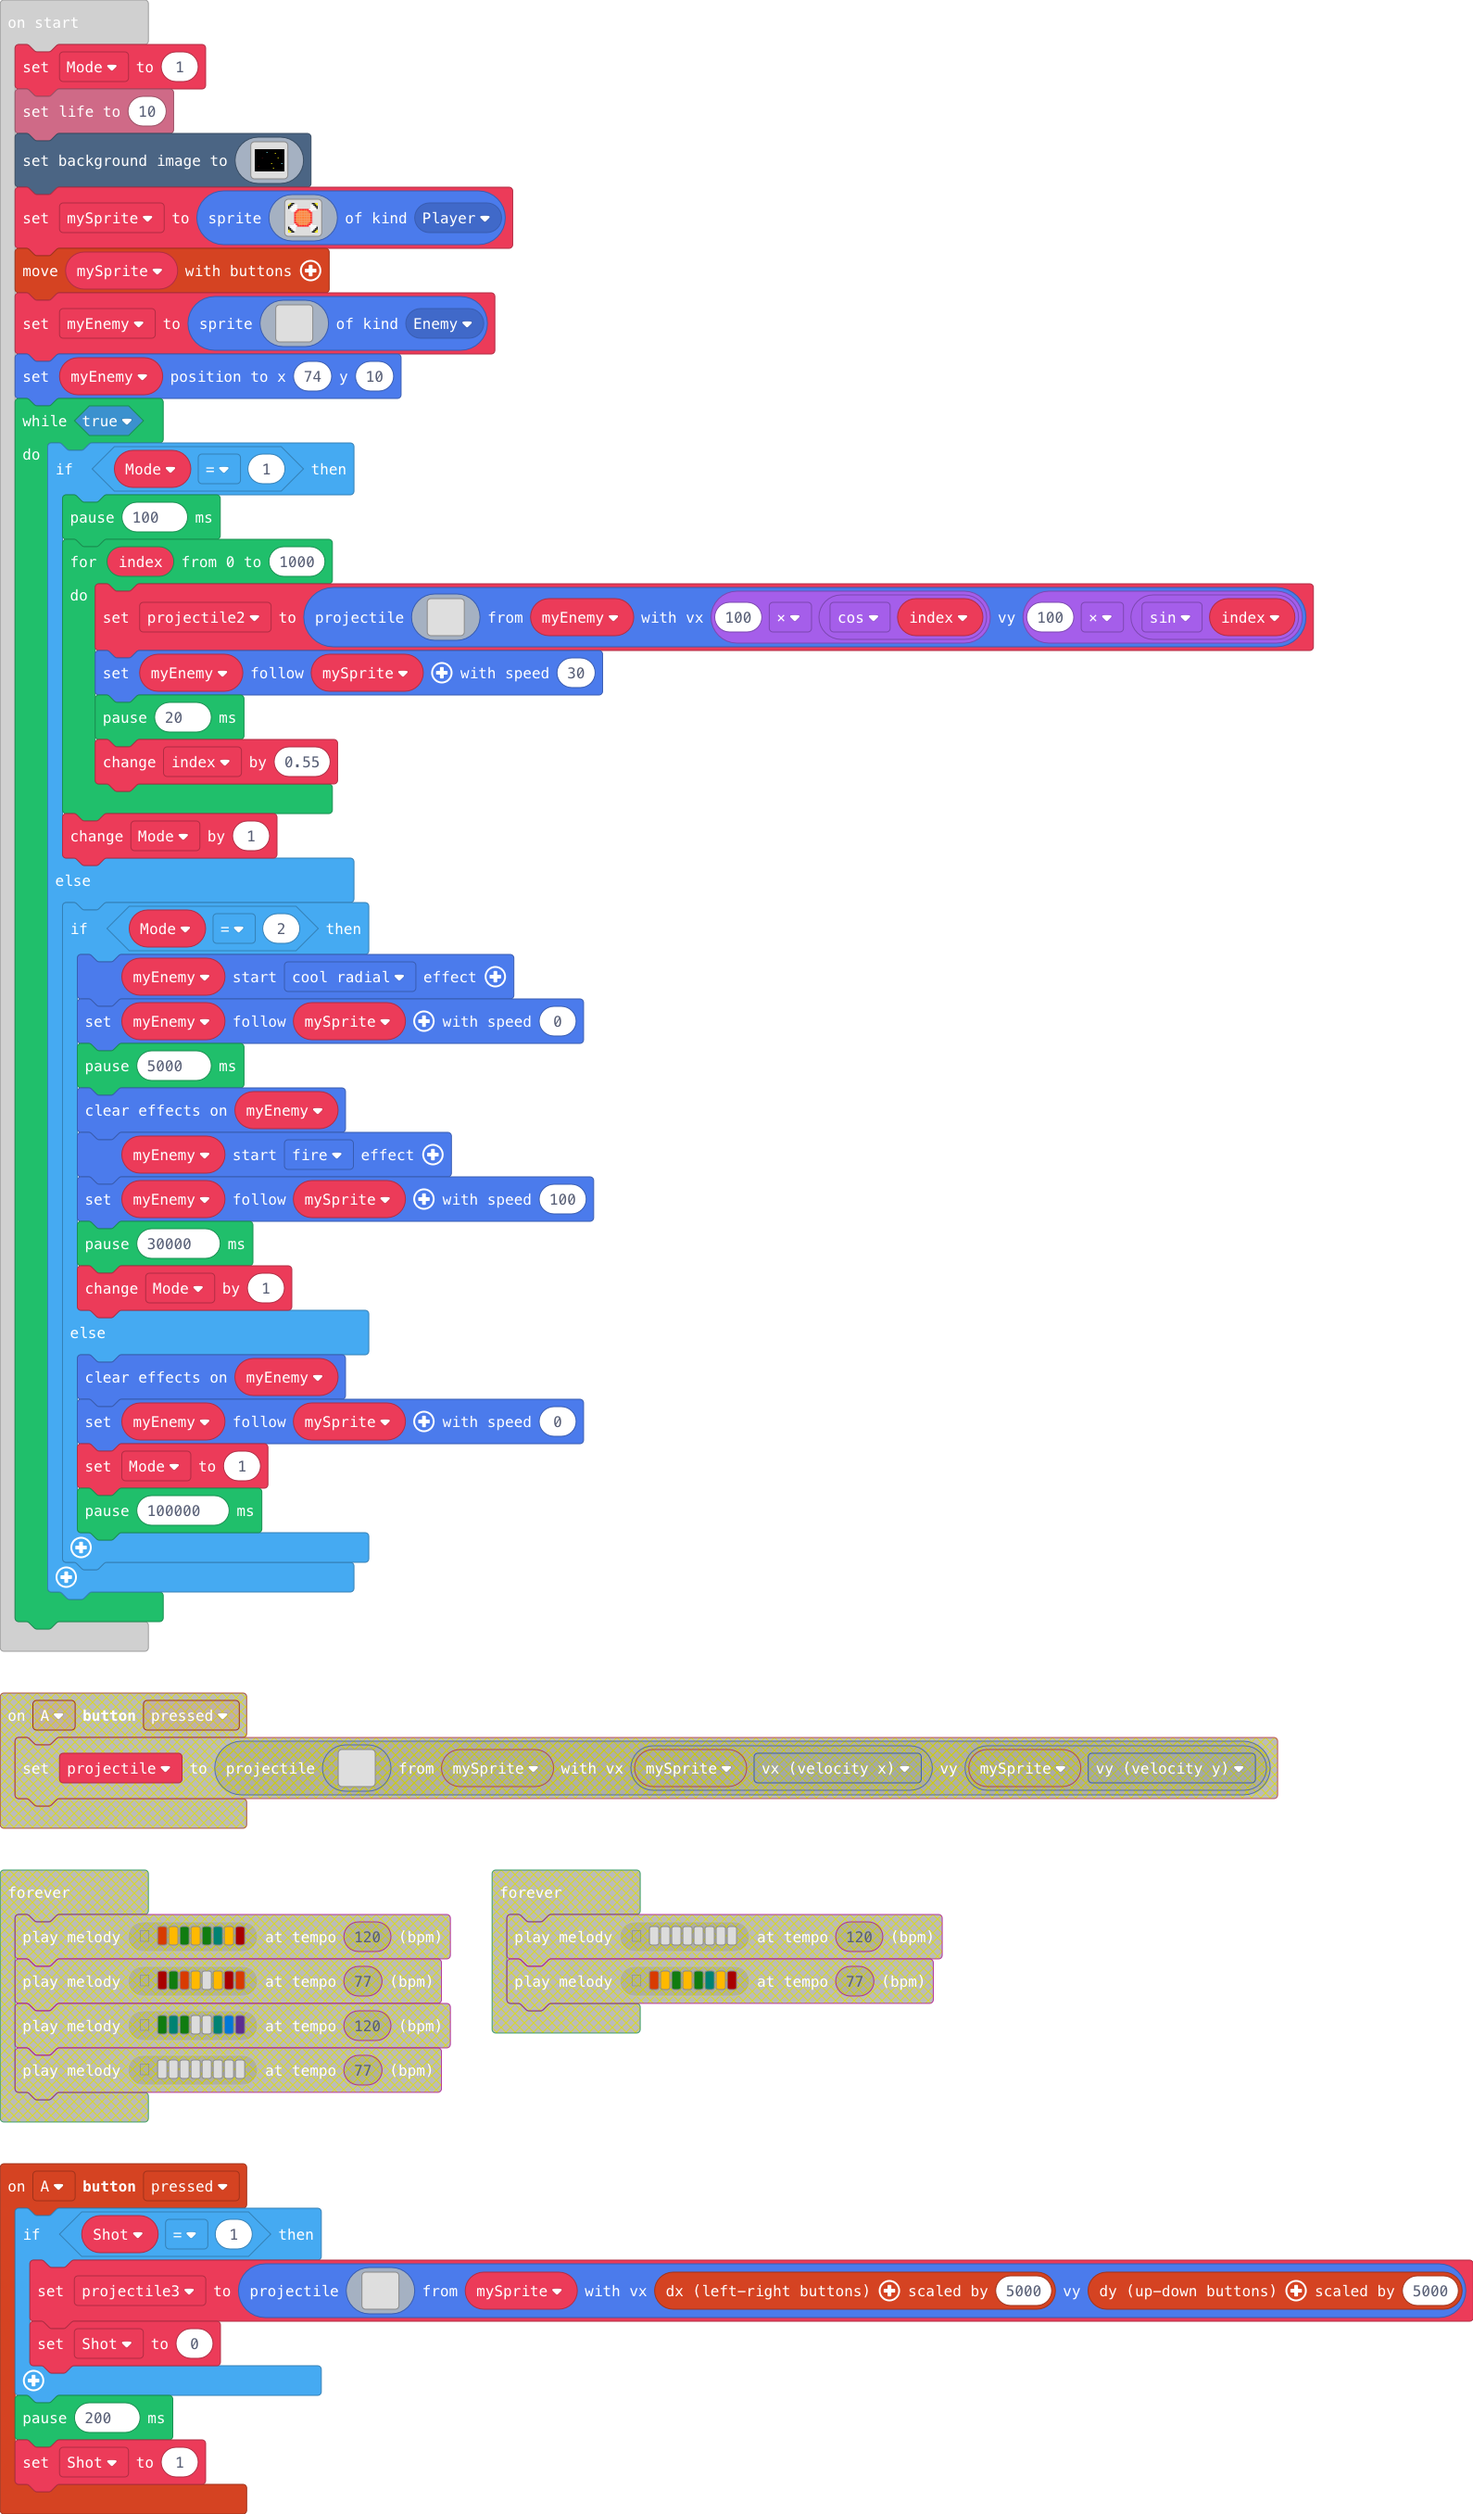
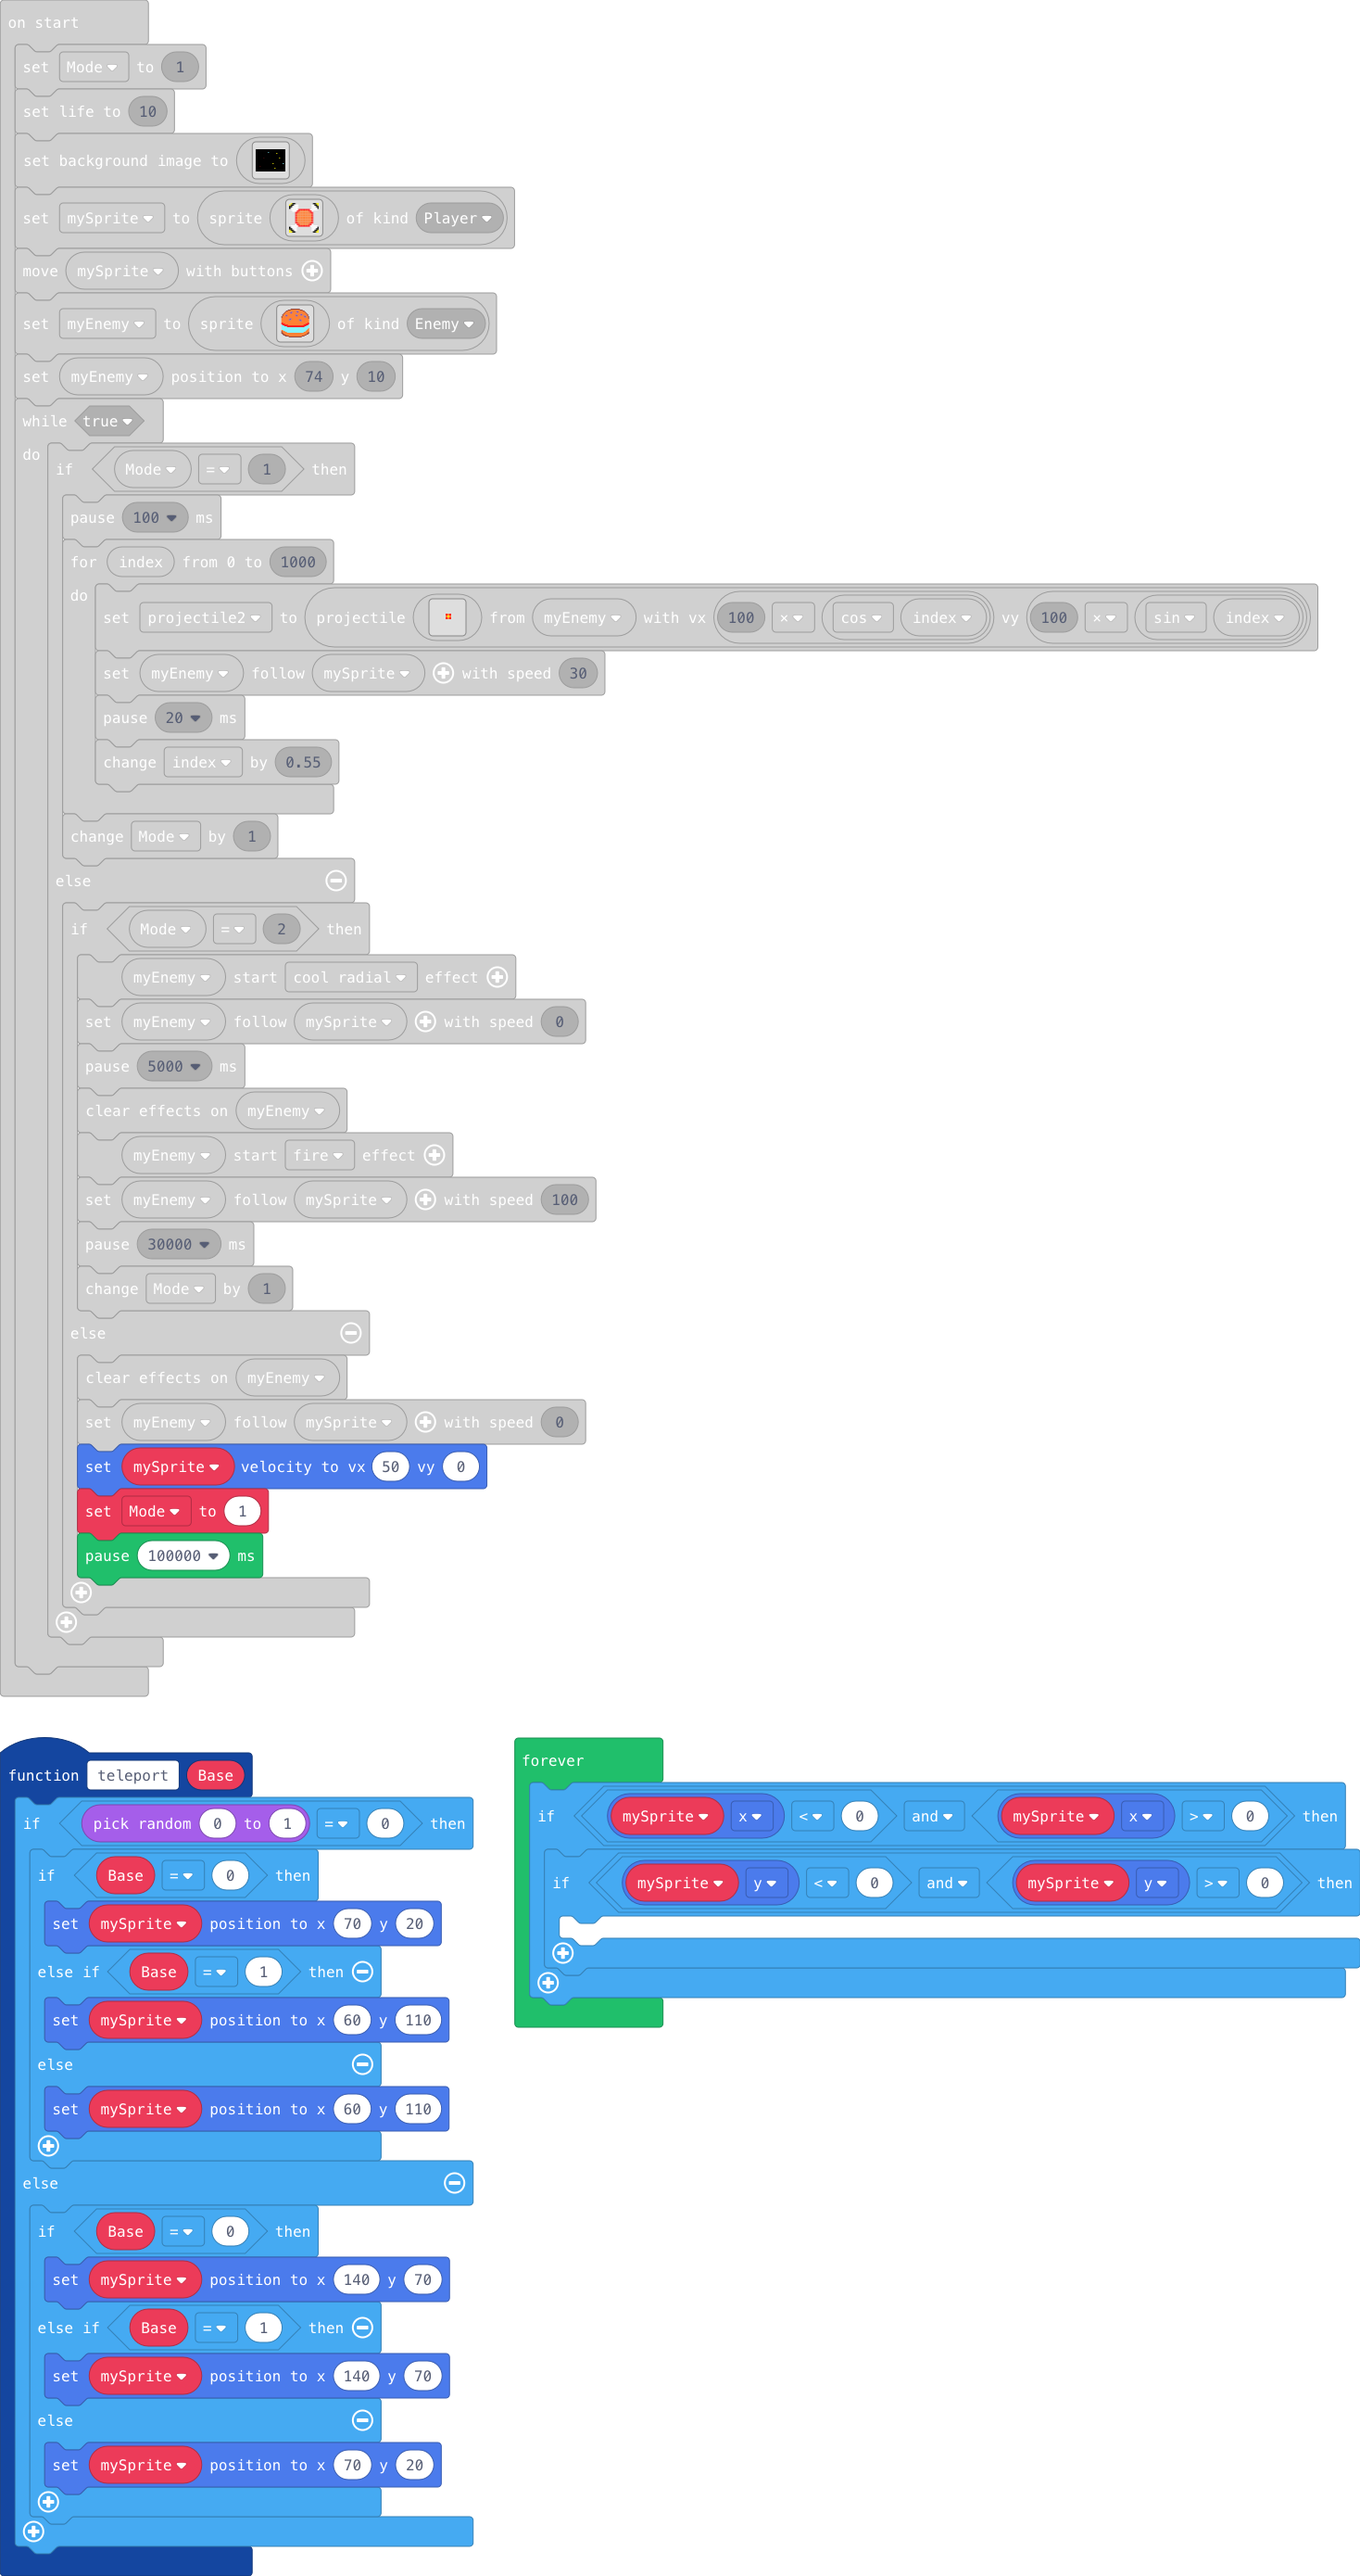
made teleport.

diff --git a/main.ts b/main.ts
@@ -44,6 +44,25 @@ controller.A.onEvent(ControllerButtonEvent.Pressed, function () {
     pause(200)
     Shot = 1
 })
+function teleport (Base: number) {
+    if (Math.randomRange(0, 1) == 0) {
+        if (Base == 0) {
+            mySprite.setPosition(70, 20)
+        } else if (Base == 1) {
+            mySprite.setPosition(60, 110)
+        } else {
+            mySprite.setPosition(60, 110)
+        }
+    } else {
+        if (Base == 0) {
+            mySprite.setPosition(140, 70)
+        } else if (Base == 1) {
+            mySprite.setPosition(140, 70)
+        } else {
+            mySprite.setPosition(70, 20)
+        }
+    }
+}
 let projectile3: Sprite = null
 let Shot = 0
 let projectile2: Sprite = null
@@ -270,8 +289,16 @@ while (true) {
         } else {
             effects.clearParticles(myEnemy)
             myEnemy.follow(mySprite, 0)
+            mySprite.setVelocity(50, 0)
             Mode = 1
             pause(100000)
         }
     }
 }
+forever(function () {
+    if (mySprite.x < 0 && mySprite.x > 0) {
+        if (mySprite.y < 0 && mySprite.y > 0) {
+        	
+        }
+    }
+})
